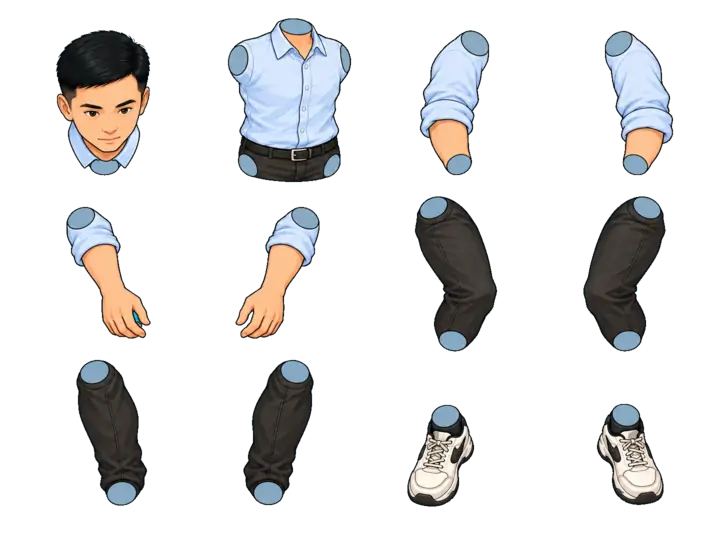
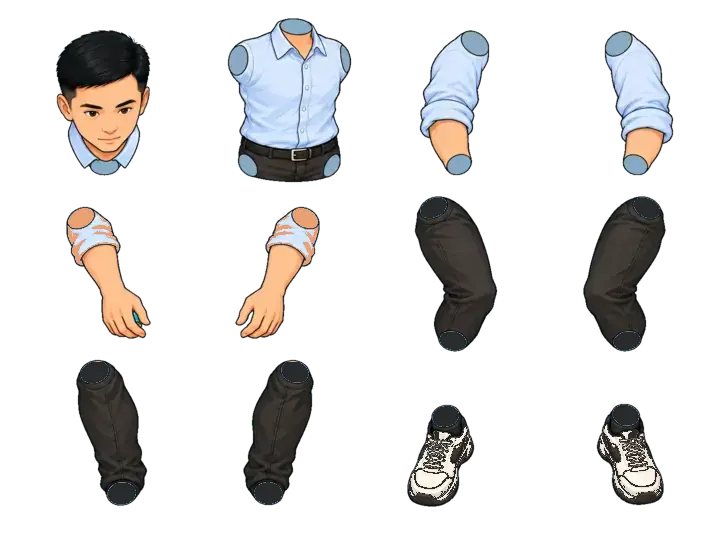
Polish Player rig proportions and joints

diff --git a/src/phieng-loi.css b/src/phieng-loi.css
@@ -1063,8 +1063,8 @@
   position: absolute;
   top: 0;
   left: 0;
-  width: 58px;
-  height: 86px;
+  width: 44px;
+  height: 66px;
   transform:
     translate(-50%, -96%)
     translateY(var(--rig-root-y))
@@ -1094,8 +1094,8 @@
 .phieng-player-rig .rig-part {
   position: absolute;
   display: block;
-  width: 46px;
-  height: 46px;
+  width: 34px;
+  height: 34px;
   background-image: var(--rig-atlas);
   background-repeat: no-repeat;
   background-size: 400% 300%;
@@ -1103,27 +1103,27 @@
   will-change: transform;
 }
 
-.phieng-player-rig .is-head { z-index: 8; top: -4px; left: 6px; }
-.phieng-player-rig .is-torso { z-index: 5; top: 19px; left: 6px; }
-.phieng-player-rig .is-back-arm-upper { z-index: 2; top: 20px; left: -1px; transform: rotate(var(--rig-back-arm)); transform-origin: 58% 28%; }
-.phieng-player-rig .is-back-arm-lower { z-index: 1; top: 34px; left: -5px; transform: rotate(var(--rig-back-forearm)); transform-origin: 60% 23%; }
-.phieng-player-rig .is-front-arm-upper { z-index: 9; top: 20px; left: 14px; transform: rotate(var(--rig-front-arm)); transform-origin: 42% 28%; }
-.phieng-player-rig .is-front-arm-lower { z-index: 10; top: 34px; left: 19px; transform: rotate(var(--rig-front-forearm)); transform-origin: 40% 23%; }
-.phieng-player-rig .is-front-hand { z-index: 11; top: 45px; left: 23px; transform: rotate(var(--rig-front-hand)); transform-origin: 42% 20%; }
-.phieng-player-rig .is-back-thigh { z-index: 3; top: 43px; left: 5px; transform: rotate(var(--rig-back-leg)); transform-origin: 54% 24%; }
-.phieng-player-rig .is-back-shin { z-index: 2; top: 57px; left: 3px; transform: rotate(var(--rig-back-shin)); transform-origin: 54% 22%; }
-.phieng-player-rig .is-back-shoe { z-index: 1; top: 70px; left: 1px; }
-.phieng-player-rig .is-front-thigh { z-index: 7; top: 43px; left: 15px; transform: rotate(var(--rig-front-leg)); transform-origin: 46% 24%; }
-.phieng-player-rig .is-front-shin { z-index: 6; top: 57px; left: 18px; transform: rotate(var(--rig-front-shin)); transform-origin: 46% 22%; }
-.phieng-player-rig .is-front-shoe { z-index: 7; top: 70px; left: 21px; }
+.phieng-player-rig .is-head { z-index: 8; top: -3px; left: 5px; }
+.phieng-player-rig .is-torso { z-index: 5; top: 14px; left: 5px; }
+.phieng-player-rig .is-back-arm-upper { z-index: 2; top: 15px; left: 0; transform: rotate(var(--rig-back-arm)); transform-origin: 58% 28%; }
+.phieng-player-rig .is-back-arm-lower { z-index: 1; top: 25px; left: -3px; transform: rotate(var(--rig-back-forearm)); transform-origin: 60% 23%; }
+.phieng-player-rig .is-front-arm-upper { z-index: 9; top: 15px; left: 11px; transform: rotate(var(--rig-front-arm)); transform-origin: 42% 28%; }
+.phieng-player-rig .is-front-arm-lower { z-index: 10; top: 25px; left: 14px; transform: rotate(var(--rig-front-forearm)); transform-origin: 40% 23%; }
+.phieng-player-rig .is-front-hand { z-index: 11; top: 33px; left: 17px; transform: rotate(var(--rig-front-hand)); transform-origin: 42% 20%; }
+.phieng-player-rig .is-back-thigh { z-index: 3; top: 32px; left: 4px; transform: rotate(var(--rig-back-leg)); transform-origin: 54% 24%; }
+.phieng-player-rig .is-back-shin { z-index: 2; top: 42px; left: 2px; transform: rotate(var(--rig-back-shin)); transform-origin: 54% 22%; }
+.phieng-player-rig .is-back-shoe { z-index: 1; top: 52px; left: 1px; }
+.phieng-player-rig .is-front-thigh { z-index: 7; top: 32px; left: 11px; transform: rotate(var(--rig-front-leg)); transform-origin: 46% 24%; }
+.phieng-player-rig .is-front-shin { z-index: 6; top: 42px; left: 13px; transform: rotate(var(--rig-front-shin)); transform-origin: 46% 22%; }
+.phieng-player-rig .is-front-shoe { z-index: 7; top: 52px; left: 16px; }
 
-.phieng-player-rig[data-view="side"] .is-head { left: 7px; }
-.phieng-player-rig[data-view="side"] .is-torso { left: 7px; }
-.phieng-player-rig[data-view="side"] .is-back-arm-upper { left: 3px; }
-.phieng-player-rig[data-view="side"] .is-back-arm-lower { left: -2px; }
-.phieng-player-rig[data-view="side"] .is-front-arm-upper { left: 17px; }
-.phieng-player-rig[data-view="side"] .is-front-arm-lower { left: 22px; }
-.phieng-player-rig[data-view="side"] .is-front-hand { left: 27px; }
+.phieng-player-rig[data-view="side"] .is-head { left: 5px; }
+.phieng-player-rig[data-view="side"] .is-torso { left: 5px; }
+.phieng-player-rig[data-view="side"] .is-back-arm-upper { left: 2px; }
+.phieng-player-rig[data-view="side"] .is-back-arm-lower { left: -1px; }
+.phieng-player-rig[data-view="side"] .is-front-arm-upper { left: 13px; }
+.phieng-player-rig[data-view="side"] .is-front-arm-lower { left: 16px; }
+.phieng-player-rig[data-view="side"] .is-front-hand { left: 20px; }
 
 .phieng-visual__actor.is-player[data-terrain="wood"]::before {
   background: rgba(52, 35, 23, .2);

diff --git a/docs/asset-provenance.md b/docs/asset-provenance.md
@@ -29,9 +29,9 @@ Before using `SOURCES.md` as provenance evidence, reconcile the shipped binary t
 
 | Asset | Status | Evidence | Required attribution / restrictions |
 | --- | --- | --- | --- |
[9 lines of base64/hex data omitted]
